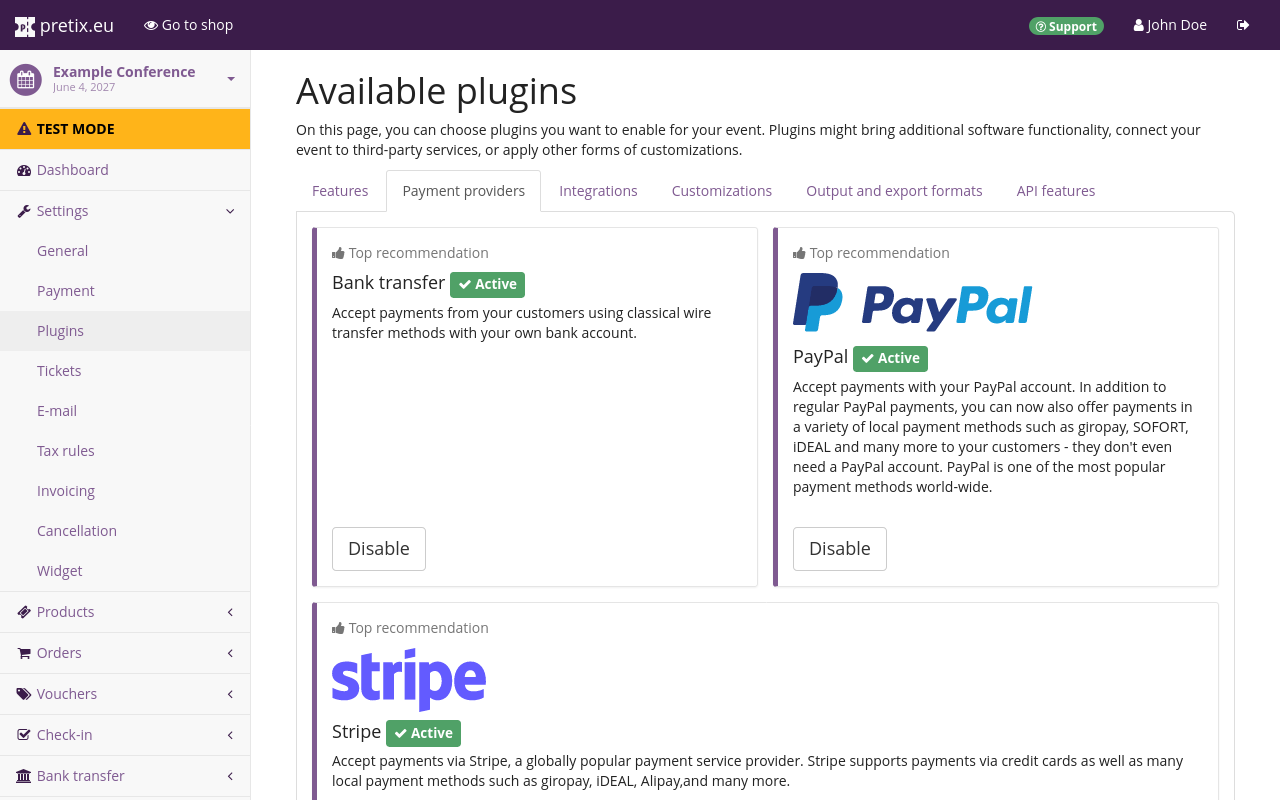
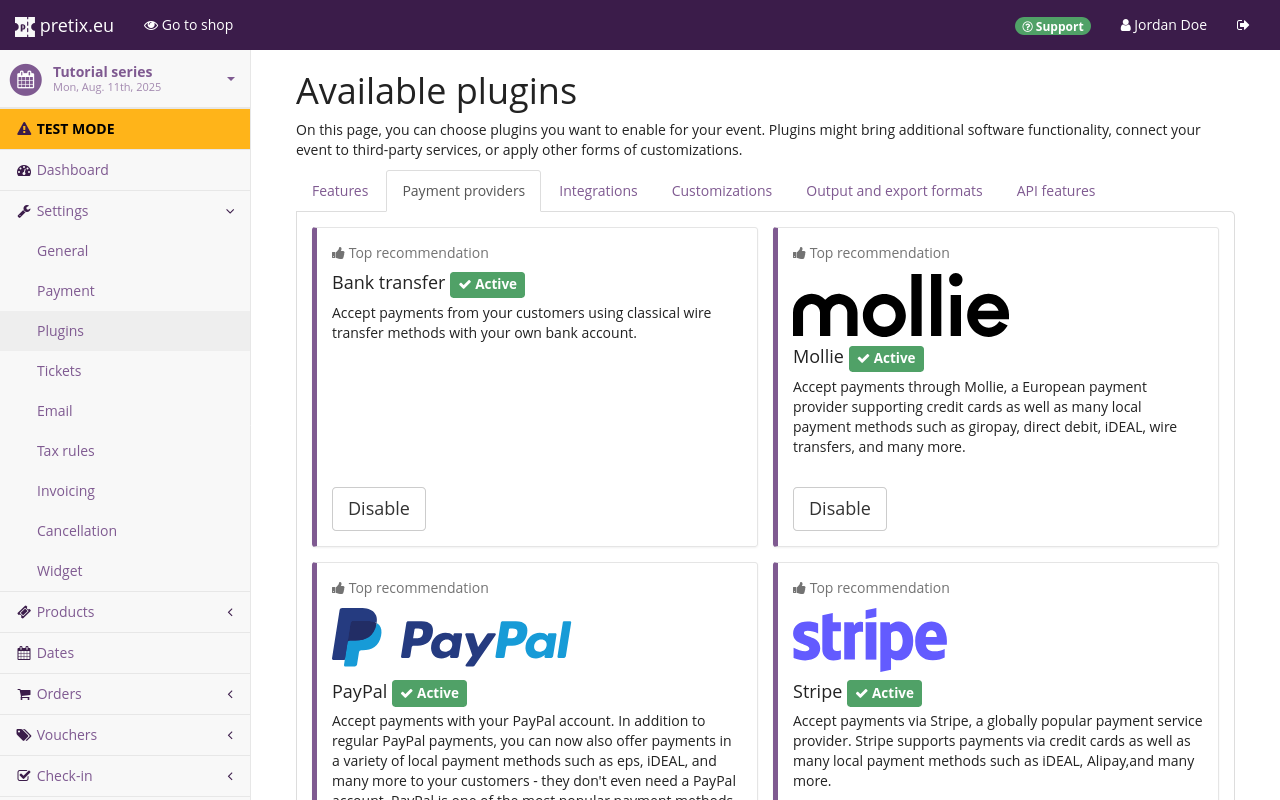
add article about mollie as a payment provider, update screenshots

diff --git a/docs/guides/payment/mollie.md b/docs/guides/payment/mollie.md
@@ -1,0 +1,70 @@
+# Mollie
+
+Mollie is one of the many options for handling payments within pretix. 
+Mollie allows handling payments via the following methods: 
+
+Alma, Apple Pay, BANCOMAT Pay, Bancontact, bank transfer, Belfius Pay Button, bitcoin, BLIK, credit card, EPS, Google Pay, iDEAL, ING Home'Pay, Klarna, KBC/CBC Payment Button, MyBank, PayPal, paysafecard, Przelewy24, Satispay, SOFORT, Trustly, and Twint. 
+
+This article tells you how to connect to your Mollie account and use it to receive payments via pretix. 
+
+## Prerequisites
+
+Setting up payment providers is handled on the event level, so you need to create an event first. 
+Make sure you have an active Mollie account. 
+You can find [instructions on how to sign up for a Mollie account](https://docs.mollie.com/docs/create-an-account) on the Mollie website. 
+
+## How To 
+
+Setting up Mollie as a payment provider in pretix involves the following steps: 
+
+ 1. Enable the Mollie plugin 
+ 2. Connect to your Mollie account 
+ 3. Enter mandatory info on the settings page for Mollie
+ 4. Make optional adjustments
+ 5. Enable payment via Mollie
+ 6. Test it 
+ 7. Switch the Mollie endpoint to "Live" 
+
+This section will guide you through those steps in detail. 
+
+![Plugins settings page. The "Payment providers" tab is open, displaying the plugins for bank transfer, Mollie, PayPal, and Stripe, all of which are active.](../../assets/screens/payment-providers/plugins-top.png "Available plugins")
+
+Navigate to :navpath:Your Event → Settings → Plugins:.
+Switch to the :btn:Payment providers: tab. 
+The Mollie plugin is displayed at the top of the page. 
+It should be enabled by default. 
+If it is enabled, it will have a green ":fa3-check: Active" tag and a white :btn:Disable: button. 
+If it isn't enabled, the tag will be missing and it will have a purple :btn:Enable: button. 
+Make sure that the plugin is enabled. 
+
+![Payment settings page. The "payment providers" tab is open, showing a list with the following entries: bank transfer, gift card, PayPal, SEPA debit and Mollie; gift card is enabled and all other entries are disabled. All entires have 'settings' buttons next to them.](../../assets/screens/payment-providers/payment-settings.png "Payment settings" )
+
+Navigate to :navpath:Your Event → Settings → Payment:. 
+The :btn:Payment providers: tab on this page displays the list of active payment providers. 
+The list should now include an entry for Mollie with a red ":fa3-times: Disabled" tag. 
+The plugin is enabled, but Mollie has not been set up and enabled as a payment provider for the event yet. 
+
+Click the :btn-icon:fa3-cog:Settings: button next to Mollie. 
+This takes you to the settings page for Mollie, which currently only includes the :btn:Connect with Mollie: button. 
+Click the button and complete the the login and authorization process with Mollie. 
+
+![Mollie website with a form for singing in and an image advertising "Tap to Pay on iPhone".](../../assets/screens/payment-providers/mollie-sign-in.png "Mollie–Sign in" )
+
+For more information on the authorization process with Mollie, refer to the [Mollie documentation](https://docs.mollie.com/docs/getting-started). 
+
+After you have completed the process, the Mollie settings page in the pretix backend will look different. 
+Instead of the single button, it will now offer a multitude of settings. 
+Your Mollie account will be displayed near the top of the page. 
+There are several checkboxes for activating payment methods such as credit cards, Apple and Google Pay, bank transfer. 
+
+Check the box for each payment method you want to enable. 
+Some of the payment methods offered here require additional permissions in your Mollie account. 
+If you enable them, you need to click the :btn:Reconnect to Mollie (update permissions): button. 
+
+All further settings on this page are optional. 
+Take a detailed look at the page and enable any settings you want for this payment provider for your event. 
+Once you are satisfied, check the box next to "Enable payment method" and click the :btn:Save: button. 
+The payment methods you enabled on this page and in your Mollie account settings will now appear as options for customers in your shop during payment. 
+
+Once you take your ticket shop live, switch the "endpoint" option on this page from "testing" to "live". 
+While your event is in test mode, the pretix software will always use Mollie's testing endpoint regardless of the setting here. 
